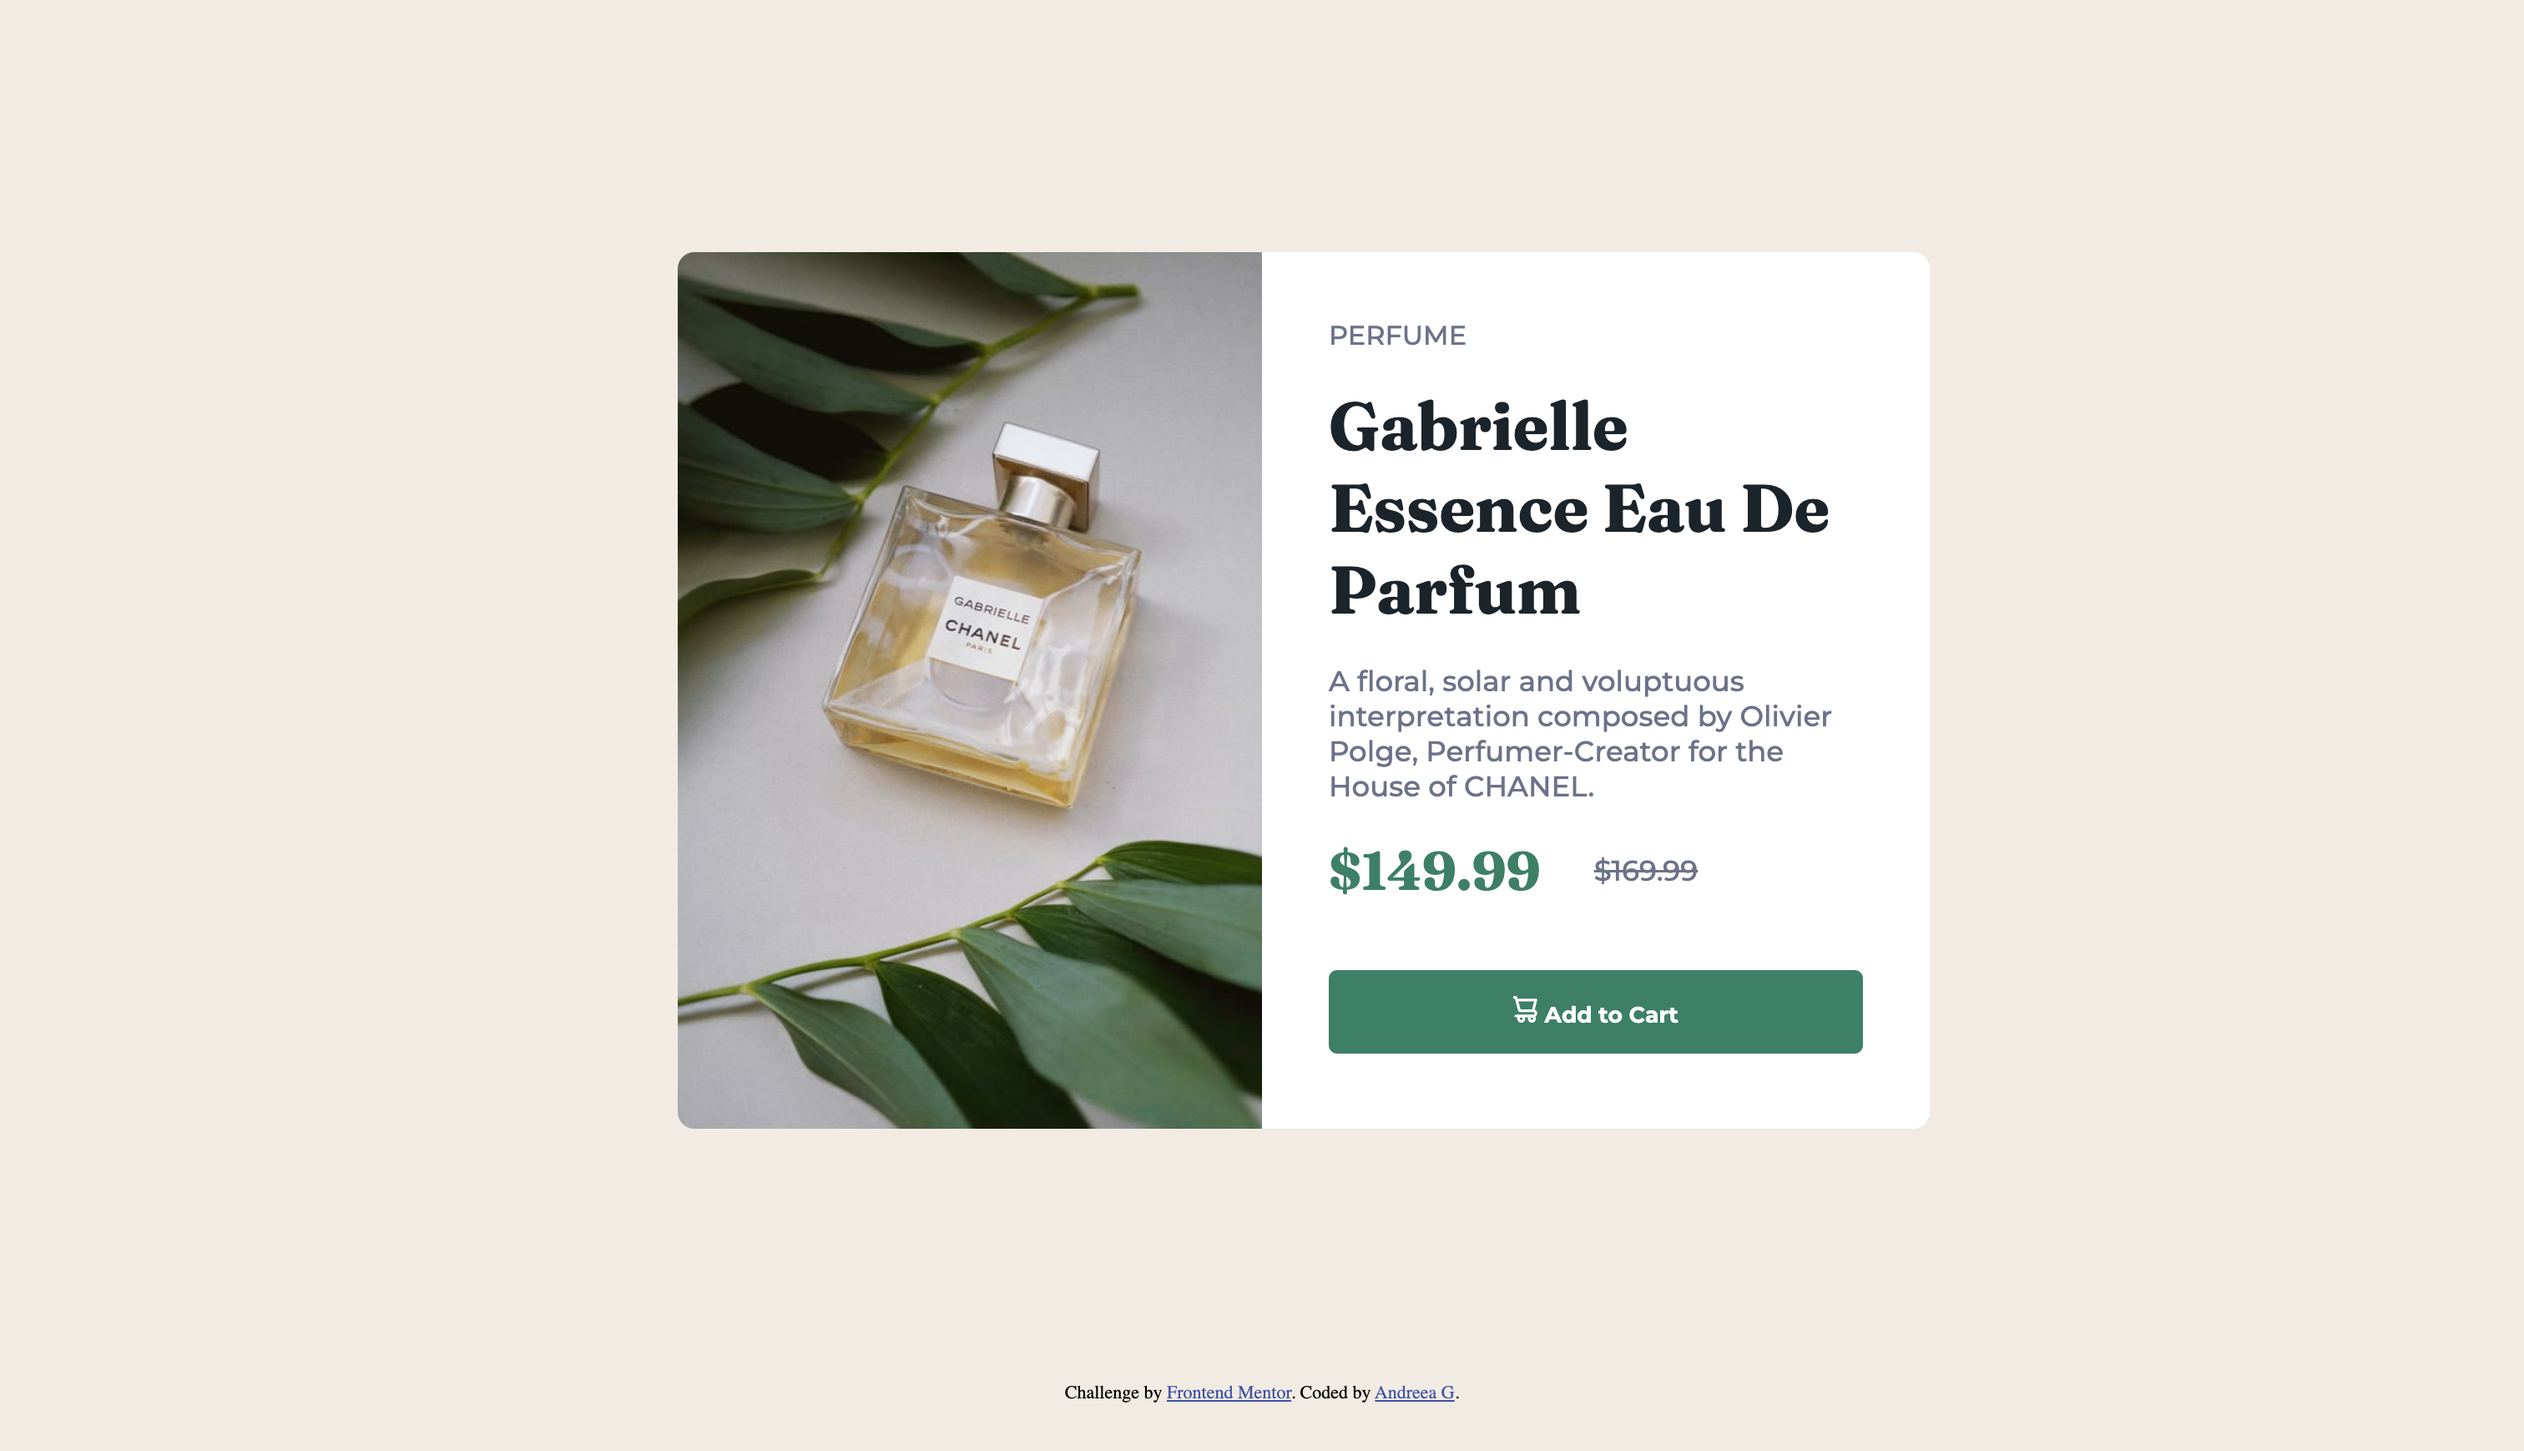
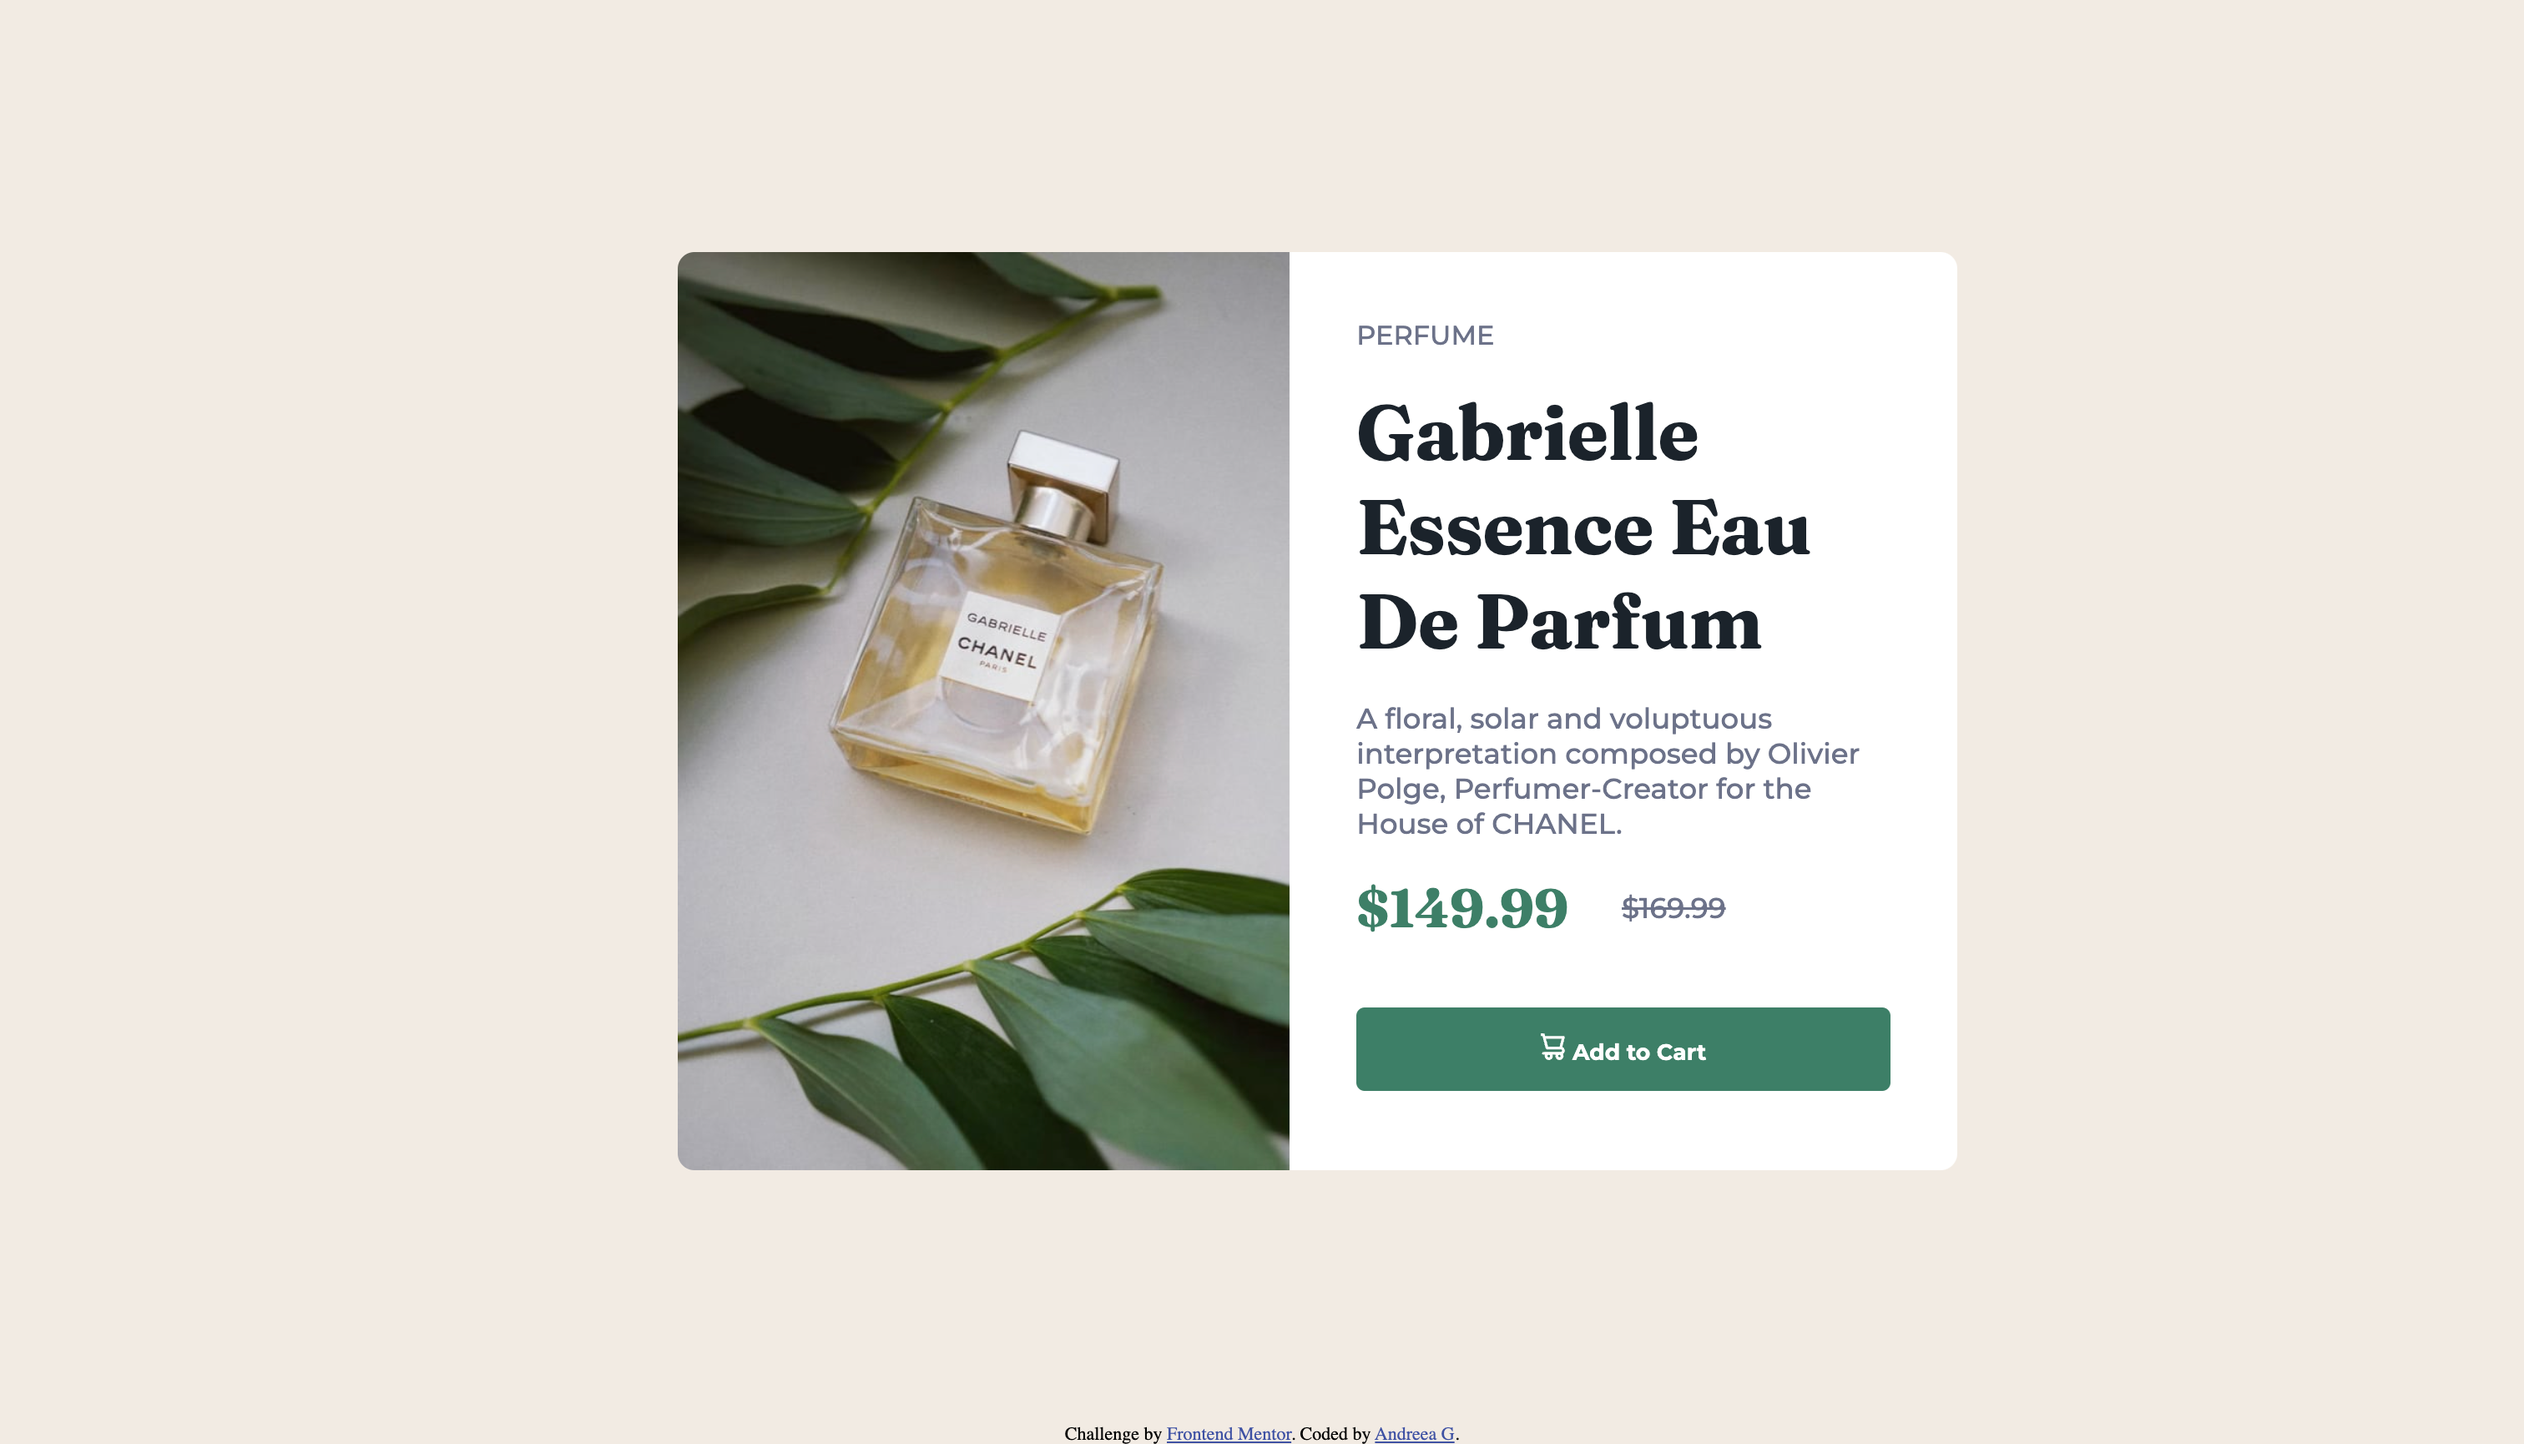
updates CSS and images

Changed region(s): [[0.2487, 0.1561, 0.7771, 0.8116], [0.4352, 0.9364, 0.5906, 1.0], [0.3108, 0.1873, 0.3419, 0.2185]]

diff --git a/styles.css b/styles.css
@@ -19,7 +19,7 @@ body {
 h1 {
     font-family: 'Fraunces', serif;
     color: var(--neutral-dark-blue);
-    font-size: 40px;
+    font-size: 46px;
     padding: 20px 0;
 }
 
@@ -62,7 +62,7 @@ main {
 .container {
     display: flex;
     width: 700px;
-    height: 525px;
+    height: 550px;
     border-radius: 10px;
     margin: 0 auto;
 }
